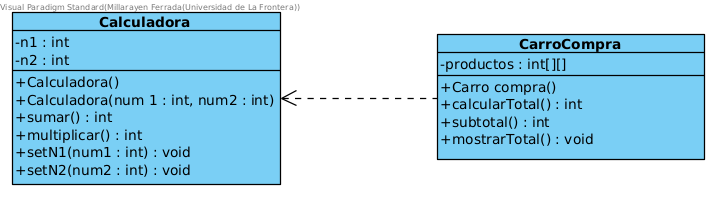
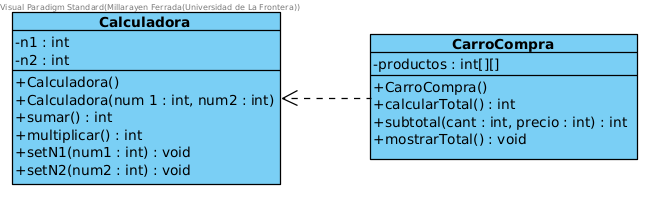
CORRECCIONES, porque algo me falto en el diagrama
+ Codigo terminado para que sea funcional

Changed region(s): [[0.0, 0.0, 0.9816, 0.9347]]

diff --git a/src/main/java/CarroCompra.java b/src/main/java/CarroCompra.java
@@ -1,19 +1,29 @@
 public class CarroCompra {
-	private int[][] _productos;
+	private int[][] _productos = new int[2][5];
 
-	public void Carro_compra() {
-		throw new UnsupportedOperationException();
-	}
+	public CarroCompra() {
+		for (int i=0; i<5; i++){
+			this._productos[0][i]=1;
+			this._productos[1][i]=1000;
+		}
+	} //cometí un error y puse un espacio
+	//por lo cual tuve que modificarlo ahora
+	//el error igual se ve en el diagrama
 
 	public int calcularTotal() {
-		throw new UnsupportedOperationException();
+		int total = 0;
+		for (int i=0; i<5; i++){
+			total+=subtotal(this._productos[0][i], this._productos[1][i]);
+		}
+		return total;
 	}
 
-	public int subtotal() {
-		throw new UnsupportedOperationException();
+	public int subtotal(int cant, int precio) {
+		Calculadora calculadora = new Calculadora(cant,precio);
+		return calculadora.multiplicar();
 	}
 
 	public void mostrarTotal() {
-		throw new UnsupportedOperationException();
+		System.out.println("El total de su compra es: " + this.calcularTotal());
 	}
 }

diff --git a/src/main/java/Calculadora.java b/src/main/java/Calculadora.java
@@ -3,19 +3,21 @@ public class Calculadora {
 	private int _n2;
 
 	public Calculadora() {
-		throw new UnsupportedOperationException();
+		this._n1=0;
+		this._n2=0
 	}
 
 	public Calculadora(int aNum_1, int aNum2) {
-		throw new UnsupportedOperationException();
+		this._n1=aNum_1;
+		this._n2=aNum2;
 	}
 
 	public int sumar() {
-		throw new UnsupportedOperationException();
+		return this._n1+this._n2;
 	}
 
 	public int multiplicar() {
-		throw new UnsupportedOperationException();
+		return this._n1*this._n2;
 	}
 
 	public void setN1(int aNum1) {
